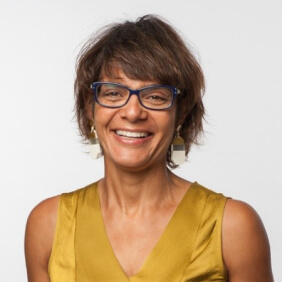
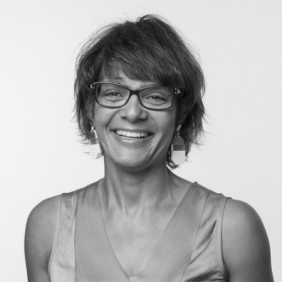
feat(team): added overlay

diff --git a/src/features/landing-page/sections/team/components/Member/index.tsx b/src/features/landing-page/sections/team/components/Member/index.tsx
@@ -1,14 +1,31 @@
 import { Box, IconButton, Link, Typography } from '@mui/material';
 import Image from 'next/image';
+import { useState } from 'react';
 import { Member as MemberProps } from '../../types/member';
 import * as styles from './styles';
 
 type Props = MemberProps;
 
-export const Member = ({ name, position, image, socials }: Props) => {
+export const Member = ({
+  name,
+  position,
+  image,
+  imageOverlay,
+  socials
+}: Props) => {
+  const [isHovered, setIsHovered] = useState(false);
+
   return (
     <Box sx={styles.container}>
-      <Box sx={styles.image}>
+      <Box
+        id="image-box"
+        sx={styles.image}
+        onMouseOver={() => setIsHovered(true)}
+        onMouseLeave={() => setIsHovered(false)}
+      >
+        {isHovered && (
+          <Box component="img" src={imageOverlay} sx={styles.overlay} />
+        )}
         <Image src={image} alt={name} objectFit="cover" layout="fill" />
       </Box>
       <Typography variant="h4" sx={styles.name}>

diff --git a/src/features/landing-page/sections/team/data/members.tsx b/src/features/landing-page/sections/team/data/members.tsx
@@ -7,6 +7,7 @@ export const members: Member[] = [
     name: 'Claudia Pernencar',
     position: 'Co-Founder, UX/UI Consultant & Researcher',
     image: '/features/landing-page/team/claudia.jpg',
+    imageOverlay: '/features/landing-page/team/claudia-overlay.svg',
     socials: [
       {
         name: 'LinkedIn',
@@ -24,6 +25,7 @@ export const members: Member[] = [
     name: 'Inga Saboia',
     position: 'Co-Founder, UX/UI Consultant & Research',
     image: '/features/landing-page/team/inga.jpg',
+    imageOverlay: '/features/landing-page/team/inga-overlay.svg',
     socials: [
       {
         name: 'LinkedIn',
@@ -41,6 +43,7 @@ export const members: Member[] = [
     name: 'Deivith Oliveira',
     position: 'Co-Founder & Digital Product Manager',
     image: '/features/landing-page/team/deivith.jpg',
+    imageOverlay: '/features/landing-page/team/deivith-overlay.svg',
     socials: [
       {
         name: 'LinkedIn',

diff --git a/src/features/landing-page/sections/team/components/Member/styles.ts b/src/features/landing-page/sections/team/components/Member/styles.ts
@@ -14,6 +14,11 @@ export const container: StylesProps = {
   border: '1px dashed',
   borderColor: 'grey.900'
 };
+export const img: StylesProps = {
+  filter: 'grayscale(100%)',
+  width: '100%',
+  height: '100%'
+};
 export const image: StylesProps = {
   position: 'relative',
   width: '100%',
@@ -21,8 +26,21 @@ export const image: StylesProps = {
   minHeight: { xs: 460, md: 460, lg: 320 },
   borderRadius: 2,
   overflow: 'hidden',
-  mb: 2,
-  filter: 'grayscale(100%)'
+  mb: 2
+};
+export const overlay: StylesProps = {
+  position: 'absolute',
+  height: '100%',
+  width: '100%',
+  zIndex: 6000,
+  objectFit: 'cover'
+};
+export const overlay2: StylesProps = {
+  position: 'relative',
+  height: '100%',
+  width: '100%',
+  zIndex: 6000,
+  objectFit: 'cover'
 };
 export const name: StylesProps = {
   fontSize: 24,

diff --git a/src/features/landing-page/sections/team/views/TeamSectionView/index.tsx b/src/features/landing-page/sections/team/views/TeamSectionView/index.tsx
@@ -11,12 +11,13 @@ export const TeamSectionView = () => {
       <Box sx={styles.section}>
         <Header />
         <Grid sx={styles.members}>
-          {members.map(({ name, position, image, socials }) => (
+          {members.map(({ name, position, image, imageOverlay, socials }) => (
             <Member
               key={name}
               name={name}
               position={position}
               image={image}
+              imageOverlay={imageOverlay}
               socials={socials}
             />
           ))}

diff --git a/src/features/landing-page/sections/team/types/member.ts b/src/features/landing-page/sections/team/types/member.ts
@@ -8,5 +8,6 @@ export type Member = {
   name: string;
   position: string;
   image: string;
+  imageOverlay: string;
   socials: Social[];
 };
